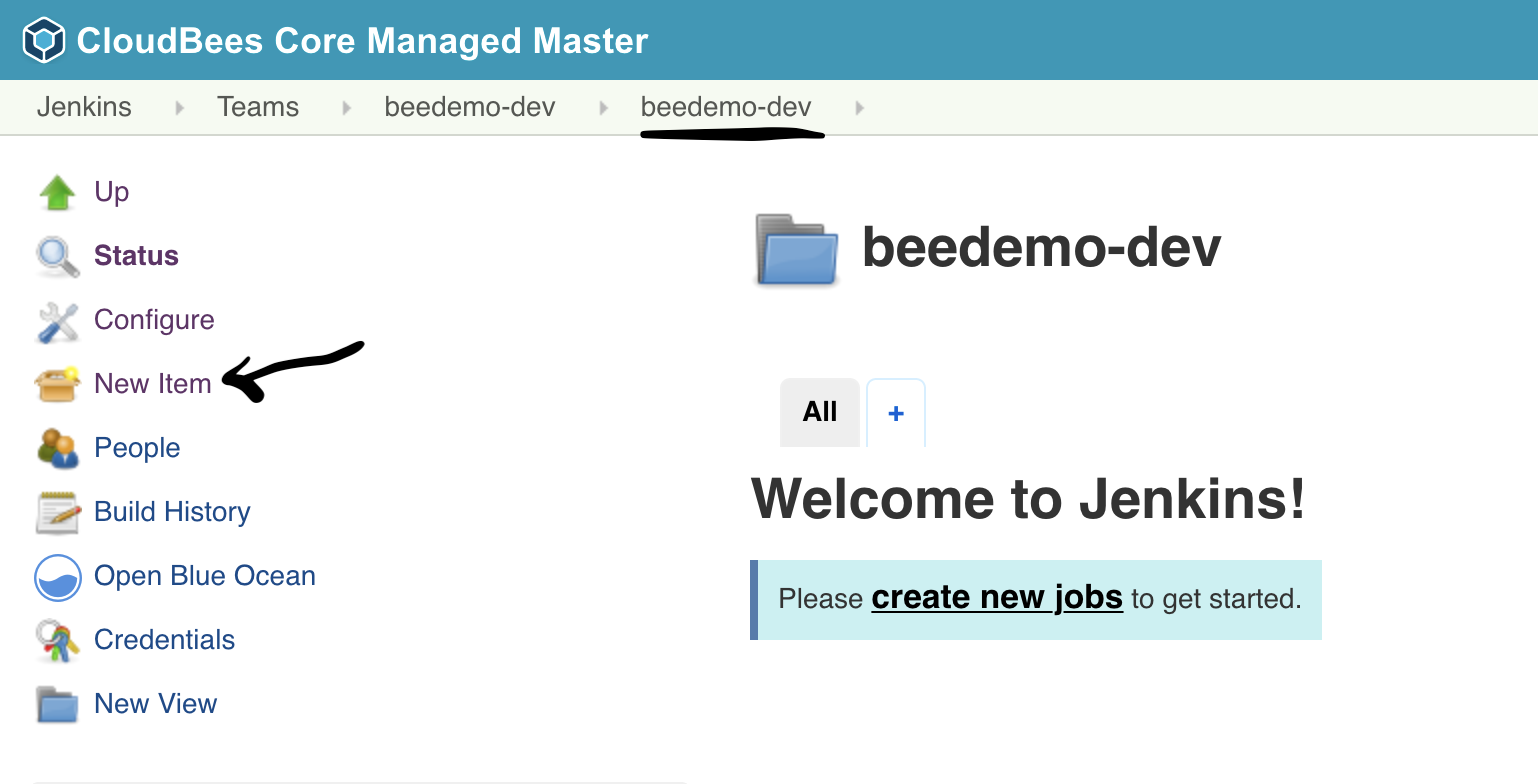
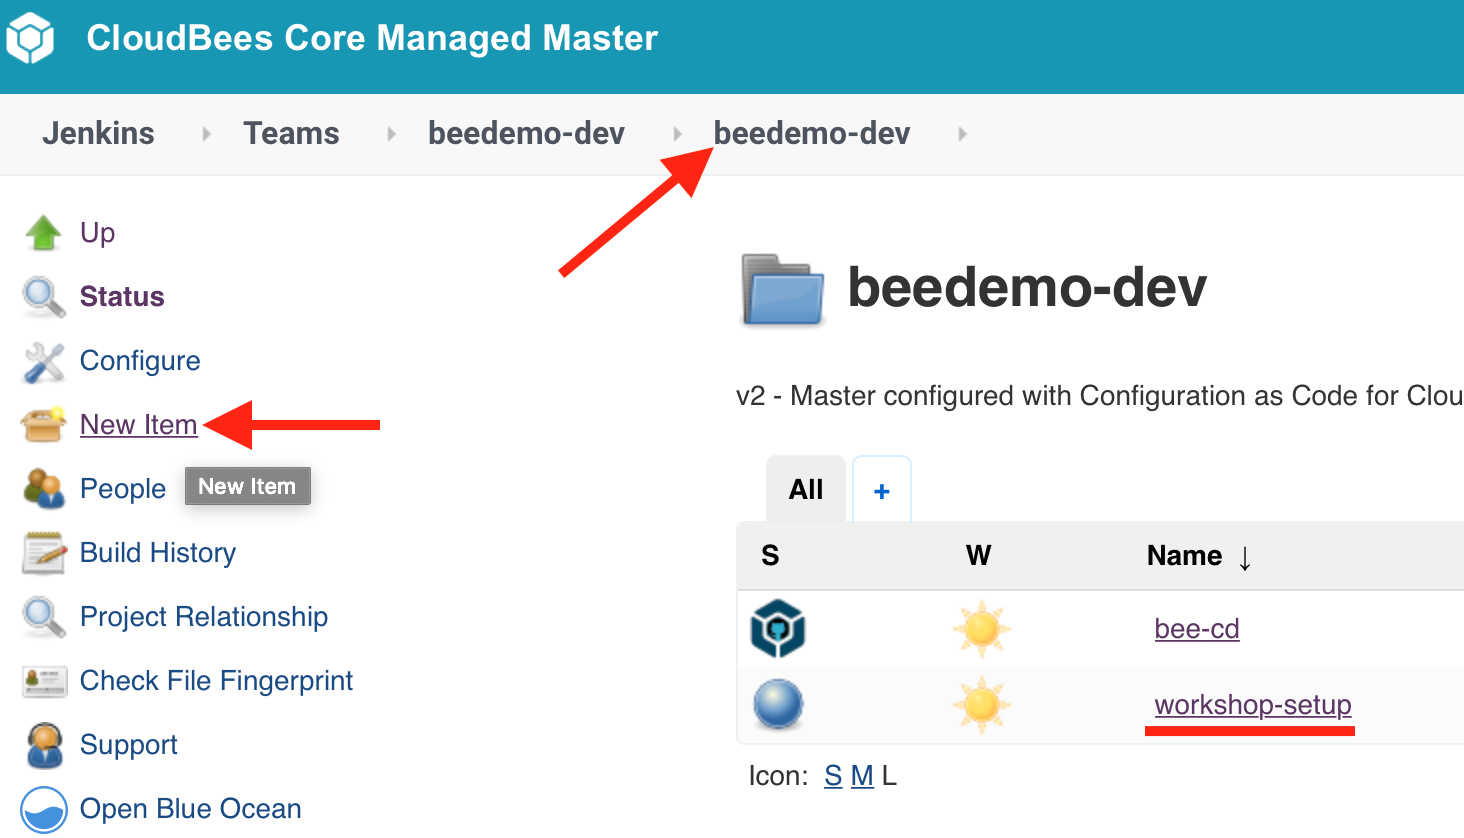
pipeline template updates

diff --git a/labs/pipeline-template-catalog/pipeline-template-catalog.md b/labs/pipeline-template-catalog/pipeline-template-catalog.md
@@ -11,9 +11,9 @@
    5. Next, click the **Validate** button to ensure your credentials and repository URL are set correctly.
    6. Finally, click the **Save** button <p><img src="images/add-catalog-info.png" width=800/>
 4. You should see the following once your catalog has been successfully imported<p><img src="images/Succesful-template-import.png" width=800/>
-5. Navigate back inside your team master and click in to the folder with your team name<p><img src="images/team-folder-click.png" width=800/>
+5. On your Team Master navigate to the folder with the same name as your Team Master - you should see the `workshop-setup` Pipeline job.
 6. Click on the **New Item** link in the left menu<p><img src="images/new-item-click.png" width=800/>
-7. We will now create a new folder called "**Template Jobs**"<p><img src="images/new-folder-click.png" width=800/>
+7. We will now create a new folder called "**template-jobs**"<p><img src="images/new-folder-click.png" width=800/>
 8. Inside of the folder configuration click on "**Restrict the kind of children in this folder**" - a [CloudBees Folders Plus](https://docs.cloudbees.com/docs/cloudbees-core/latest/cloud-secure-guide/folders-plus) feature - and then select "**VueJS**" only and then hit save<p><img src="images/restricted-items-check.png" width=800/>
    
 ## Create vue.js Job from Pipeline Template Catalog
